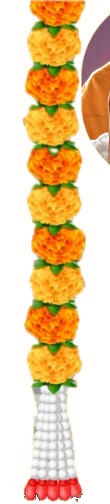
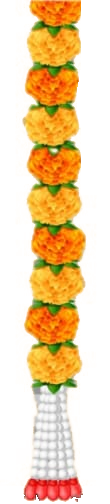
hi

Changed region(s): [[0.7091, 0.0298, 1.0, 0.3274], [0.7364, 0.0, 0.7909, 0.0298], [0.7364, 0.2976, 0.7636, 0.3274]]

diff --git a/index.html b/index.html
@@ -72,15 +72,26 @@ button{font:inherit;cursor:pointer;border:0}
 #flash{position:fixed;inset:0;background:#fff;opacity:0;pointer-events:none;z-index:10}
 #flash.go{animation:flash .6s ease-out}
 @keyframes flash{0%{opacity:.95}100%{opacity:0}}
-.bar{position:fixed;left:50%;bottom:calc(14px + env(safe-area-inset-bottom));transform:translate(-50%,30px);z-index:5;display:flex;gap:14px;align-items:center;padding:8px 16px;
-  background:#fdeed8cc;backdrop-filter:blur(10px);-webkit-backdrop-filter:blur(10px);border-radius:999px;box-shadow:0 8px 24px #5a0a1233;opacity:0;visibility:hidden;transition:.6s var(--ease)}
+.bar{position:fixed;left:50%;bottom:calc(14px + env(safe-area-inset-bottom));transform:translate(-50%,30px);z-index:5;display:flex;gap:16px;align-items:center;padding:10px 18px;
+  background:linear-gradient(#fff6e6ee,#fde4c3ee);backdrop-filter:blur(12px);-webkit-backdrop-filter:blur(12px);border-radius:999px;
+  border:1.5px solid #e0a83a;box-shadow:0 10px 30px #5a0a1240,inset 0 1px 0 #fff;opacity:0;visibility:hidden;transition:.6s var(--ease);max-width:calc(100vw - 20px)}
 .bar.on{opacity:1;visibility:visible;transform:translate(-50%,0)}
-.shutter{width:68px;height:68px;border-radius:50%;background:#fff;border:6px solid var(--red);box-shadow:0 0 0 3px #fff;transition:transform .2s}
-.shutter:active{transform:scale(.88)}
-.round{width:50px;height:50px;border-radius:50%;background:#fff;font-size:22px;border:1.5px solid #b3121f44;color:var(--deep);display:grid;place-items:center}
-.round:active{transform:scale(.9)}
-.pill{white-space:nowrap;background:linear-gradient(135deg,#d01c2c,var(--red));color:#fff;height:50px;padding:0 20px;border-radius:999px;font-size:16px}
-.pill.ghost{background:#fff;color:var(--deep);border:1.5px solid #b3121f44}
+.bar svg{width:24px;height:24px;stroke:currentColor;fill:none;stroke-width:2;stroke-linecap:round;stroke-linejoin:round}
+.shutter{position:relative;width:76px;height:76px;border-radius:50%;padding:0;background:conic-gradient(from 0deg,#f2a900,#fff1b8,#f2a900,#c7810a,#f2a900);display:grid;place-items:center;
+  box-shadow:0 6px 18px #b3121f55;transition:transform .2s;animation:ring 6s linear infinite}
+@keyframes ring{to{filter:hue-rotate(0deg);transform:none}}
+.shutter::before{content:"";position:absolute;inset:-7px;border-radius:50%;border:2px solid #f2a90088;animation:ping 2s infinite}
+@keyframes ping{from{transform:scale(.9);opacity:1}to{transform:scale(1.25);opacity:0}}
+.shutter i{width:60px;height:60px;border-radius:50%;background:radial-gradient(circle at 35% 30%,#ef3b47,#b3121f 70%);display:grid;place-items:center;color:#fff;border:3px solid #fff}
+.shutter:active{transform:scale(.9)}.shutter:disabled{opacity:.6}
+.round{width:52px;height:52px;border-radius:50%;background:#fff;color:var(--red);border:1.5px solid #e0a83a;display:grid;place-items:center;padding:0;cursor:pointer;box-shadow:0 3px 10px #5a0a1226;transition:transform .2s,background .2s}
+.round:active{transform:scale(.88);background:#fde4c3}
+.pill{display:inline-flex;align-items:center;gap:8px;white-space:nowrap;height:52px;padding:0 20px;border-radius:999px;font-size:16px;letter-spacing:.02em;transition:transform .2s;box-shadow:0 4px 12px #5a0a1233}
+.pill:active{transform:scale(.94)}
+.pill.save{background:linear-gradient(135deg,#d01c2c,#a30f1c);color:#fff;border:1.5px solid #f2a900}
+.pill.share{background:linear-gradient(135deg,#ffd25e,#f2a900);color:var(--deep);border:1.5px solid #c7810a}
+.pill.ghost{background:#fff;color:var(--red);border:1.5px solid #e0a83a}
+@media (max-width:380px){.pill{padding:0 14px;font-size:14px;gap:5px}.bar{gap:8px;padding:8px 10px}}
 @media (prefers-reduced-motion:reduce){*{animation-duration:.01s!important;animation-iteration-count:1!important;transition-duration:.01s!important}}
 </style>
 </head>
@@ -127,14 +138,14 @@ button{font:inherit;cursor:pointer;border:0}
 <div id="flash"></div>
 
 <div class="bar" id="camBar">
-  <label class="round" title="Upload photo">🖼<input type="file" id="file" accept="image/*" hidden></label>
-  <button class="shutter" id="shutter" aria-label="Take photo"></button>
-  <button class="round" id="flip" aria-label="Flip camera">🔄</button>
+  <label class="round" title="Upload photo" aria-label="Upload photo"><svg viewBox="0 0 24 24"><rect x="3" y="3" width="18" height="18" rx="3"/><circle cx="8.5" cy="8.5" r="1.5"/><path d="M21 15l-5-5L5 21"/></svg><input type="file" id="file" accept="image/*" hidden></label>
+  <button class="shutter" id="shutter" aria-label="Take photo"><i><svg viewBox="0 0 24 24" style="width:28px;height:28px"><path d="M23 19a2 2 0 01-2 2H3a2 2 0 01-2-2V8a2 2 0 012-2h4l2-3h6l2 3h4a2 2 0 012 2z"/><circle cx="12" cy="13" r="4"/></svg></i></button>
+  <button class="round" id="flip" aria-label="Flip camera"><svg viewBox="0 0 24 24"><path d="M3 12a9 9 0 0115-6.7L21 8M21 3v5h-5M21 12a9 9 0 01-15 6.7L3 16M3 21v-5h5"/></svg></button>
 </div>
 <div class="bar" id="resBar">
-  <button class="pill" id="save">⬇ Save</button>
-  <button class="pill ghost" id="share">Share</button>
-  <button class="pill ghost" id="retake">Retake</button>
+  <button class="pill save" id="save"><svg viewBox="0 0 24 24"><path d="M12 3v12M7 10l5 5 5-5M4 21h16"/></svg>Save</button>
+  <button class="pill share" id="share"><svg viewBox="0 0 24 24"><circle cx="18" cy="5" r="3"/><circle cx="6" cy="12" r="3"/><circle cx="18" cy="19" r="3"/><path d="M8.6 13.5l6.8 4M15.4 6.5l-6.8 4"/></svg>Share</button>
+  <button class="pill ghost" id="retake"><svg viewBox="0 0 24 24"><path d="M3 12a9 9 0 109-9 9 9 0 00-6.4 2.6L3 8M3 3v5h5"/></svg>Retake</button>
 </div>
 
 <script>
@@ -163,7 +174,7 @@ const burst=()=>{for(let i=0;i<80;i++)petal(true,innerWidth/2,innerHeight/2)};
 
 // camera
 async function startCam(){
-  $('msg').style.display='none';$('video').style.display='';$('shot').classList.remove('in');
+  $('msg').style.display='none';$('video').style.display='';$('shot').classList.remove('in');$('shot').style.opacity=0;
   if(stream)stream.getTracks().forEach(t=>t.stop());
   try{
     stream=await navigator.mediaDevices.getUserMedia({video:{facingMode:facing,width:{ideal:1280},height:{ideal:1280}},audio:false});
@@ -201,7 +212,10 @@ $('save').onclick=()=>{if(url)URL.revokeObjectURL(url);url=URL.createObjectURL(l
 $('share').onclick=async()=>{const f=new File([lastBlob],'shubh-navratri.jpg',{type:'image/jpeg'});
   if(navigator.canShare&&navigator.canShare({files:[f]}))try{await navigator.share({files:[f],title:'Shubh Navratri'})}catch(e){}
   else $('save').click()};
-$('retake').onclick=()=>{$('resBar').classList.remove('on');$('camBar').classList.add('on');$('shot').classList.remove('in');$('shot').style.opacity=0;upload=null;startCam()};
+$('retake').onclick=()=>{$('resBar').classList.remove('on');$('shot').classList.remove('in');$('shot').style.opacity=0;$('video').style.display='';upload=null;
+  setTimeout(()=>$('camBar').classList.add('on'),300);
+  const live=stream&&stream.getVideoTracks().some(t=>t.readyState==='live');
+  if(live){const v=$('video');v.srcObject=null;v.srcObject=stream;v.play().catch(startCam)}else startCam()};
 </script>
 </body>
 </html>
